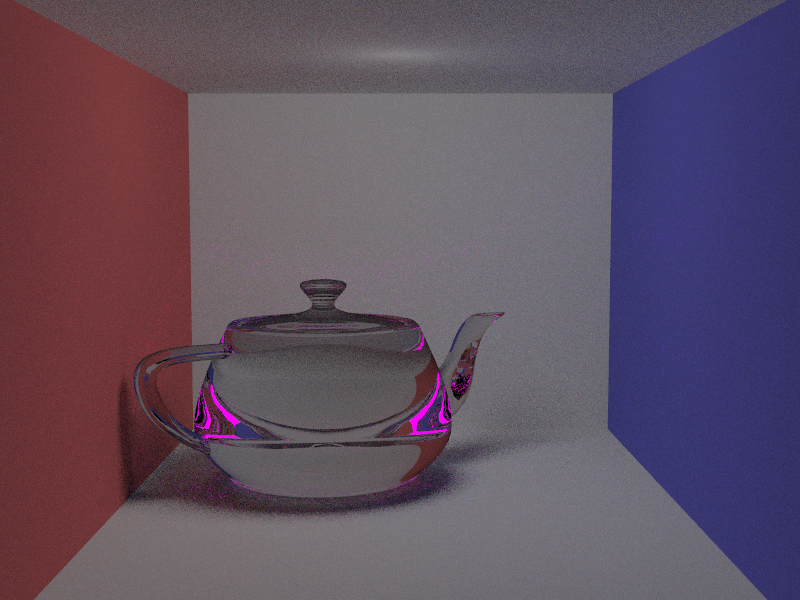
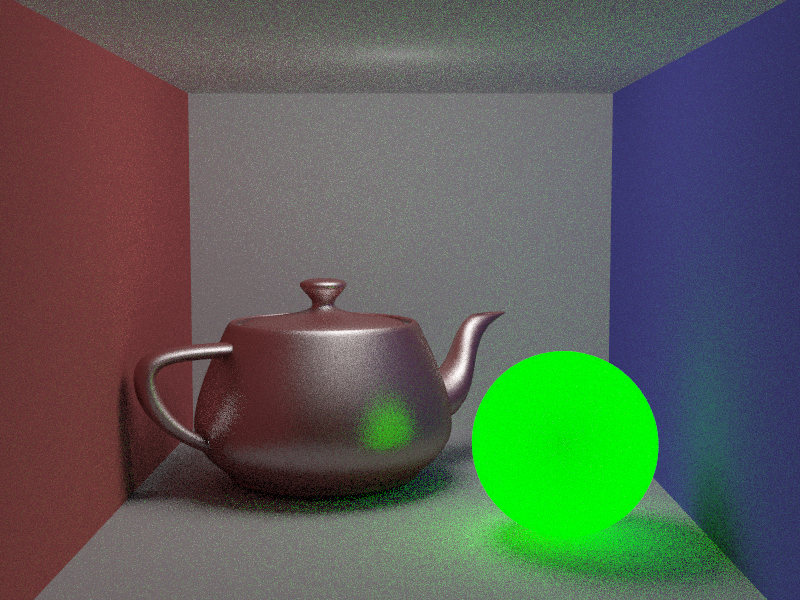
Re do refraction

Changed region(s): [[0.125, 0.45, 0.9688, 1.0], [0.0312, 0.0, 0.9688, 0.15]]

diff --git a/BHRayTracer/DataStructure/MtlBlinn.cpp b/BHRayTracer/DataStructure/MtlBlinn.cpp
@@ -90,8 +90,9 @@ Color MtlBlinn::Shade(Ray const &ray, const HitInfo &hInfo, const LightList &lig
 	if (outColor.r >= 1 && outColor.g >= 1 && outColor.b >= 1) return outColor;
 #endif // ENABLE_GI
 
-
-	outColor += PathTracing_Refraction(refraction.GetColor(), absorption, ior, hInfo, vN, vV, bounceCount, GIBounceCount, refractionGlossiness);
+	float refraction_glossiness = 0;
+	if (glossiness > 20) refraction_glossiness = 1 / glossiness;
+	outColor += PathTracing_Refraction(refraction.GetColor(), absorption, ior, hInfo, vN, vV, bounceCount, GIBounceCount, refraction_glossiness);
 
 
 	if (isnan(outColor.r)) {
@@ -213,28 +214,38 @@ cy::Color PathTracing_Refraction(const Color& refraction, const Color& absorptio
 	if (o_bounceCount <= 0) return refractionColor;
 	o_bounceCount--;
 
-	Vec3f vN_new = refractionGlossiness > 0 ? GetSampleAlongNormal(vN, refractionGlossiness).GetNormalized() : vN;
-	float cosPhi1New = vN_new.Dot(vV);
-	// handle floating point precision issues
-	{
-		if (cosPhi1New > 1) cosPhi1New = 1;
-		if (cosPhi1New <= 0) return refractionColor;
-	}
+	float cosPhi1 = vN.Dot(vV);
+
 	float R0 = pow((1 - ior) / (1 + ior), 2);
 	// Fresnel Reflection factor
-	float fresnelReflectionFactor = R0 + (1 - R0)* pow((1 - cosPhi1New), 5);
+	float fresnelReflectionFactor = R0 + (1 - R0)* pow((1 - cosPhi1), 5);
 	if (!refraction.IsBlack()) {
 
-		float sinPhi1 = sqrt(1 - cosPhi1New * cosPhi1New);
+		float sinPhi1 = sqrt(1 - cosPhi1 * cosPhi1);
 		float sinPhi2 = sinPhi1 / ior;
 		float cosPhi2 = sqrt(1 - sinPhi2 * sinPhi2);
 
-		Vec3f vTn = -cosPhi2 * vN_new;
-		Vec3f vNxV = vN_new.Cross(vV);
-		Vec3f vTp = vN_new.Cross(vNxV).GetNormalized()*sinPhi2;
+		Vec3f vTn = -cosPhi2 * vN;
+		Vec3f vNxV = vN.Cross(vV);
+		Vec3f vTp = vN.Cross(vNxV).GetNormalized()*sinPhi2;
+		// perfect refraction direction
 		Vec3f vT = vTn + vTp;
+		Vec3f vT_sampled = vT;
+		if (refractionGlossiness > 0)
+		{
+			// Sample a new refraction direction
+			float dotSign =  0;
+			// if the new vT is going out(sign of dot(vT, vN) > 0), generate a new one
+			while (dotSign  >= 0)
+			{
+				float theta = 0;
+				vT_sampled = GetSampleAlongLightDirection(vT, refractionGlossiness, theta);
+				dotSign = vT_sampled.Dot(vN);
+			}
+		}
 
-		refractionColor = RefractionRecusive((1 - fresnelReflectionFactor) * refraction, ior, vT, hInfo, vN_new, refractionGlossiness, absorption, o_bounceCount, GIBounceCount);
+
+		refractionColor = RefractionRecusive((1 - fresnelReflectionFactor) * refraction, ior, vT_sampled, hInfo, vN, refractionGlossiness, absorption, o_bounceCount, GIBounceCount);
 	}
 
 	ClampColorToWhite(refractionColor);
@@ -243,17 +254,16 @@ cy::Color PathTracing_Refraction(const Color& refraction, const Color& absorptio
 	}
 
 
-cy::Color RefractionRecusive(const Color& refraction, const float& ior, const Vec3f& vT, const HitInfo& hInfo, const Vec3f& vN_new, const float& refractionGlossiness, const Color& absorption, int o_bounceCount, int i_GIbounceCount)
+cy::Color RefractionRecusive(const Color& refraction, const float& ior, const Vec3f& vT, const HitInfo& hInfo, const Vec3f& vN, const float& refractionGlossiness, const Color& absorption, int o_bounceCount, int i_GIbounceCount)
 {
 	Ray refractionRay_in;
 	refractionRay_in.dir = vT;
-	refractionRay_in.p = hInfo.p - vN_new * Bias;
+	refractionRay_in.p = hInfo.p - vN * Bias;
 	HitInfo refraHInfo_in = HitInfo();
 	bool bRefractionInHit;
 	recursive(&rootNode, refractionRay_in, refraHInfo_in, bRefractionInHit, HIT_BACK);
 	if (bRefractionInHit && refraHInfo_in.node != nullptr) {
 		bool bGoingOut;
-
 		Color refractionColor = Color::Black();
 
 		Ray nextRay = HandleRayWhenRefractionRayOut(refractionRay_in, refraHInfo_in, ior, bGoingOut, refractionGlossiness);
@@ -261,9 +271,10 @@ cy::Color RefractionRecusive(const Color& refraction, const float& ior, const Ve
 			refractionColor = RefractionOut(nextRay, absorption, refraction, o_bounceCount, i_GIbounceCount);
 		}
 		else {
+			// Total internal reflection
 			if (o_bounceCount <= 0)
 			{
-				refractionColor = Color(0, 0, 0);
+				refractionColor = Color(0, 1, 0);
 				/*Ray bouncingCountZeroRay = Ray(refraHInfo_in.p + refraHInfo_in.N*Bias, refractionRay_in.dir);
 				refractionColorSum_out = RefractionOut(bouncingCountZeroRay, absorption, refraction, o_bounceCount, i_GIbounceCount);*/
 			}
@@ -301,48 +312,8 @@ cy::Color RefractionOut(const Ray& outRay, const Color& absorption, const Color&
 	return outColor;
 }
 
-
-Color Refraction(const Color& refraction, const Color& absorption, const float& cosPhi1, const float& ior, const HitInfo& hInfo, const Vec3f& vN, const Vec3f& vV, int o_bounceCount, int GIBounceCount, const float& refractionGlossiness)
-{
-	Color refractionColor = Color::Black();
-	if (!refraction.IsBlack()) {
-
-		Color refractionColorSum_in = Color::Black();
-		int sampleCount = refractionGlossiness > 0 ? GlossyRefractionSampleCount : 1;
-		for (int i = 0; i < sampleCount; ++i)
-		{
-			Vec3f vN_new = refractionGlossiness > 0 ? GetSampleAlongNormal(vN, refractionGlossiness).GetNormalized() : vN;
-			float cosPhi1New = vN_new.Dot(vV);
-			// handle floating point precision issues
-			{
-				if (cosPhi1New > 1) cosPhi1New = 1;
-				if (cosPhi1New <= 0) continue;
-			}
-			float sinPhi1 = sqrt(1 - cosPhi1New * cosPhi1New);
-			float sinPhi2 = sinPhi1 / ior;
-			float cosPhi2 = sqrt(1 - sinPhi2 * sinPhi2);
-
-			Vec3f vTn = -cosPhi2 * vN_new;
-			Vec3f vNxV = vN_new.Cross(vV);
-			Vec3f vTp = vN_new.Cross(vNxV).GetNormalized()*sinPhi2;
-			Vec3f vT = vTn + vTp;
-
-			refractionColorSum_in += RefractionRecusive(refraction, ior, vT, hInfo, vN_new, refractionGlossiness, absorption, o_bounceCount, GIBounceCount) / sampleCount;
-		}
-		refractionColor = refractionColorSum_in / sampleCount;
-	}
-
-	if (isnan(refractionColor.r)) {
-		printf("Refraction color has nan! \n");
-		return Color::NANPurple();
-	}
-	if (s_debugTrace)
-		PrintDebugColor("Refraction", refractionColor);
-	return refractionColor;
-}
-
 Ray HandleRayWhenRefractionRayOut(const Ray& inRay, const HitInfo& inRayHitInfo, const float& ior, bool& toOut, const float& refractionGlossiness) {
-	Vec3f vN = refractionGlossiness > 0 ? GetSampleAlongNormal(inRayHitInfo.N, refractionGlossiness).GetNormalized() : inRayHitInfo.N; // to up
+	Vec3f vN = inRayHitInfo.N; // to up
 
 	Vec3f vV = -inRay.dir; // opposite to up
 
@@ -355,10 +326,25 @@ Ray HandleRayWhenRefractionRayOut(const Ray& inRay, const HitInfo& inRayHitInfo,
 		Vec3f vTn = vN * cosPhi2;
 		Vec3f vNxV = vN.Cross(vV);
 		Vec3f vTp = vN.Cross(vNxV).GetNormalized() * sinPhi2;
+		// perfect out refraction ray
 		Vec3f vT = vTn + vTp;
 
+		Vec3f vT_sampled = vT;
+		if (refractionGlossiness > 0)
+		{
+			// Sample a new refraction direction
+			float dotSign = 0;
+			// if the new vT is going out(sign of dot(vT, vN) > 0), generate a new one
+			while (dotSign >= 0)
+			{
+				float theta = 0;
+				vT_sampled = GetSampleAlongLightDirection(vT, refractionGlossiness, theta);
+				dotSign = vT_sampled.Dot(vN);
+			}
+		}
+
 		Ray outsideRay;
-		outsideRay.dir = vT;
+		outsideRay.dir = vT_sampled;
 		outsideRay.p = inRayHitInfo.p + vN * Bias;
 		toOut = true;
 		return outsideRay;

diff --git a/BHRayTracer/Plane.cpp b/BHRayTracer/Plane.cpp
@@ -19,6 +19,15 @@ bool Plane::IntersectRay(Ray const &ray, HitInfo &hInfo, int hitSide /*= HIT_FRO
 	if (x.x < -1 || x.x > 1 || x.y < -1 || x.y > 1) {
 		return false;
 	}
+	// Back face check
+	{
+		float dotCheck = (-ray.dir).Dot(Vec3f(0, 0, 1));
+		if (dotCheck < 0 && hitSide == HIT_FRONT) // back face
+			return false;
+		else if (dotCheck > 0 && hitSide == HIT_BACK) // front face
+			return false;
+	}
+
 
 	// Set hit info
 	hInfo.p = x;
